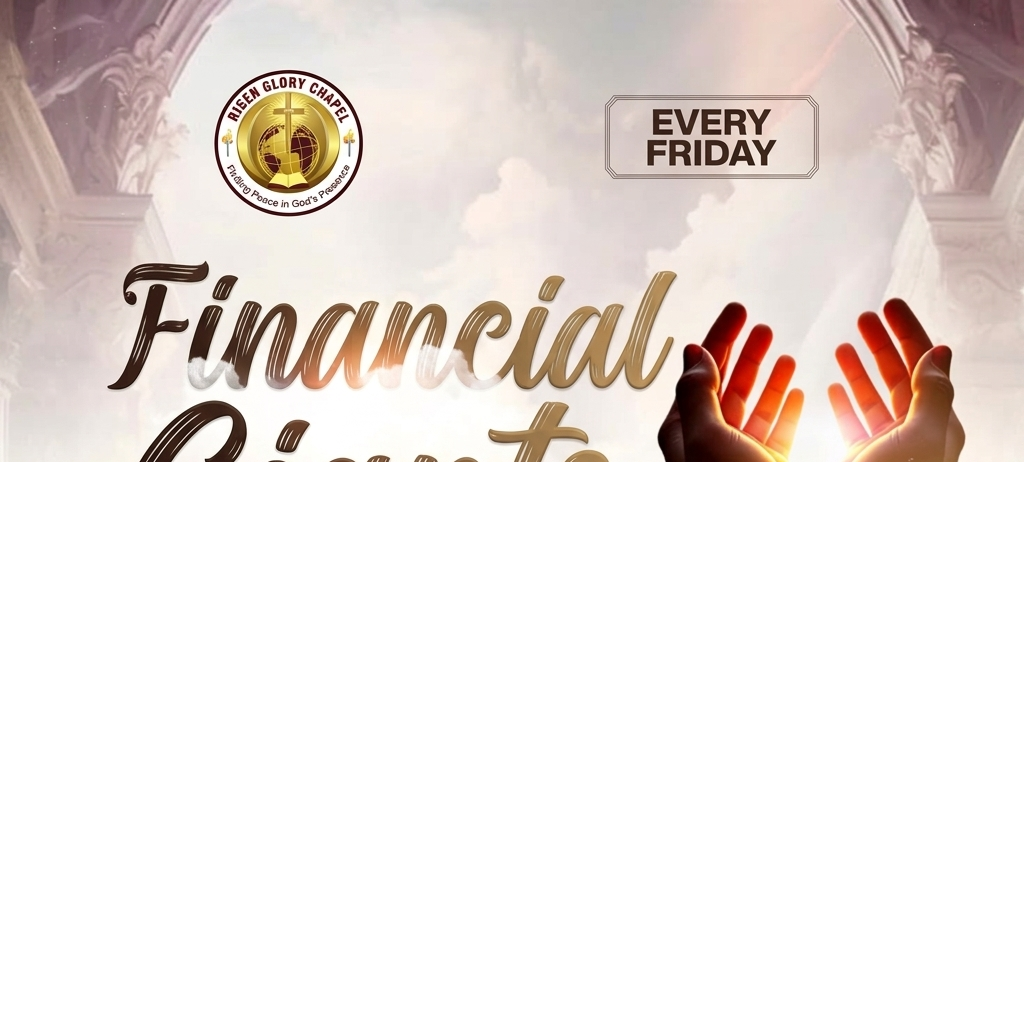
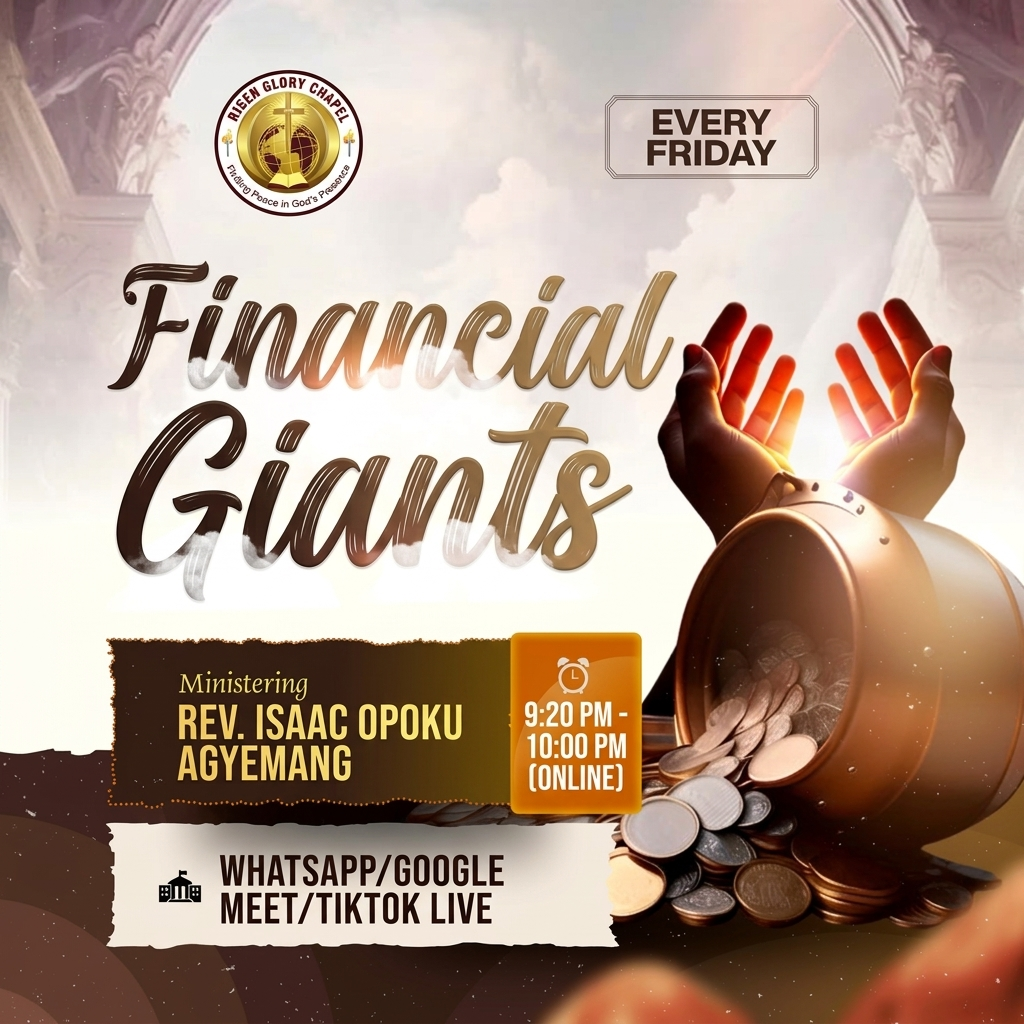
Update Friday program to Financial Giants (Online 9:20 PM - 10:00 PM) with complete flyer

diff --git a/index.html b/index.html
@@ -998,8 +998,8 @@
         <svg width="22" height="22" viewBox="0 0 24 24" fill="none" stroke="currentColor" stroke-width="2"><path d="M12 2v20M17 5H9.5a3.5 3.5 0 0 0 0 7h5a3.5 3.5 0 0 1 0 7H6"/></svg>
       </div>
       <div class="ribbon-text">
-        <h4>Every Friday Service</h4>
-        <p>Weekly In-Person Fellowship</p>
+        <h4>Financial Giants (Online)</h4>
+        <p>Fridays: 9:20 PM – 10:00 PM (Online)</p>
       </div>
     </div>
     <div class="ribbon-item">
@@ -1065,11 +1065,11 @@
         <div style="font-size: 13px; font-weight: 700; color: var(--burgundy-700);">Online Gathering (Facebook, Meet, TikTok)</div>
       </div>
 
-      <div class="program-card">
-        <span class="program-time-pill">Every Friday</span>
-        <h4>Every Friday Service</h4>
-        <p>Weekly gathering for spiritual breakthrough, intercession, and divine empowerment at Risen Glory Chapel with Rev. Isaac Opoku Agyemang.</p>
-        <div style="font-size: 13px; font-weight: 700; color: var(--gold-600);">In-Person Fellowship</div>
+      <div class="program-card" style="border-color: var(--gold-500); background: var(--gold-50);">
+        <span class="program-time-pill" style="background: var(--gold-500); color: var(--burgundy-900);">Every Friday • 9:20 PM - 10:00 PM</span>
+        <h4>Financial Giants (Online)</h4>
+        <p>Prophetic empowerment and financial breakthrough service ministered by Rev. Isaac Opoku Agyemang, streaming live on WhatsApp, Google Meet & TikTok Live.</p>
+        <div style="font-size: 13px; font-weight: 700; color: var(--burgundy-700);">Online Gathering (WhatsApp, Meet, TikTok Live)</div>
       </div>
     </div>
 

diff --git a/gallery.html b/gallery.html
@@ -363,12 +363,12 @@
 
       <!-- Item 3: Friday Service -->
       <div class="gallery-card">
-        <img src="assets/friday_flyer.png" alt="Every Friday Service Flyer">
+        <img src="assets/friday_flyer.png" alt="Financial Giants Every Friday Flyer">
         <div class="gallery-info">
           <div>
-            <span class="gallery-tag">Weekly In-Person Gathering</span>
-            <h3>Every Friday Service</h3>
-            <p>Join us every Friday at Risen Glory Chapel for an encounter of spiritual breakthrough, prayer, and divine impartation with Rev. Isaac Opoku Agyemang.</p>
+            <span class="gallery-tag">Weekly Online Gathering</span>
+            <h3>Financial Giants (Every Friday Online)</h3>
+            <p>Ministered by Rev. Isaac Opoku Agyemang every Friday from 9:20 PM – 10:00 PM online via WhatsApp, Google Meet, and TikTok Live for financial empowerment and prophetic prayers.</p>
           </div>
         </div>
       </div>
